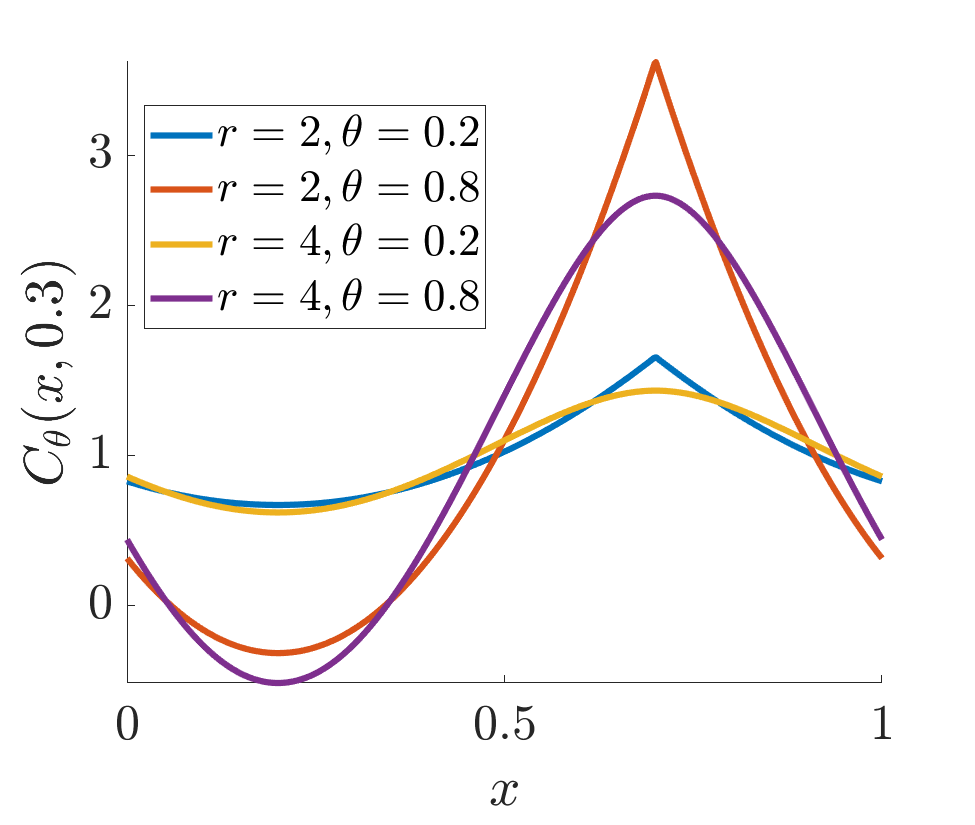
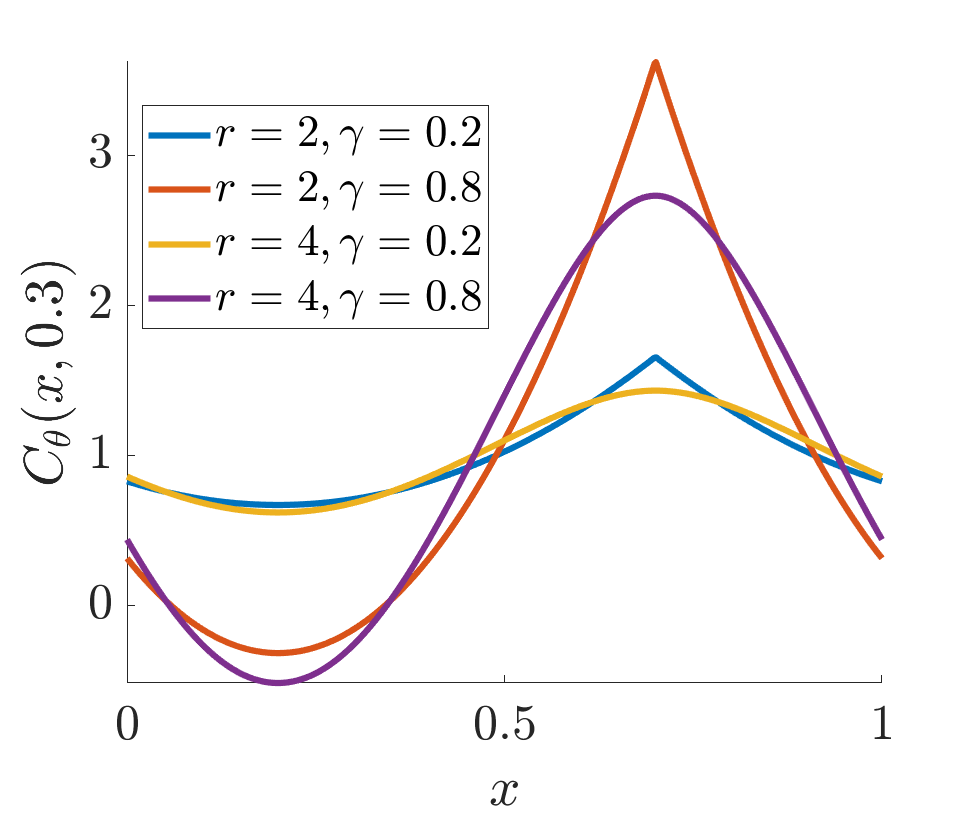
Few cleanups

diff --git a/GAIL_Matlab/Papers/Thesis/Jagadees/TestKeisterBayesianCubature.m b/GAIL_Matlab/Papers/Thesis/Jagadees/TestKeisterBayesianCubature.m
@@ -20,31 +20,7 @@ samplingMethod = get_arg('samplingMethod', varargin);
 
 % define the integrand 
 fName='Keister';
-
-% if 0
-%   normsqd = @(t) sum(t.^2,2); %squared l_2 norm of t
-%   %domain = repmat([0;1],[1,dim]);
-%   replaceZeros = @(t) (t+(t==0)*eps); % to avoid getting infinity, NaN
-%   yinv = @(t)(erfinv( replaceZeros(abs(t)) ));  %using erfcinv is more accurate than erfinv with -1
-%   fKeister = @(t,dim) cos( sqrt( normsqd(yinv(t)) )) *(sqrt(pi))^dim;
-%   integrand = @(x) fKeister(x,dim);
-% else
-%   %integrand = @(x) keisterFunction(x, dim);
-% %   a = 0.99;
-% %   
-% %   normsqd = @(t) sum(t.*t,2); %squared l_2 norm of t
-% %   replaceZeros = @(t) (t+(t==0)*eps); % to avoid getting infinity, NaN
-% %   yinv = @(t)(erfcinv( replaceZeros(abs(t)) ));  %using erfcinv is more accurate than erfinv with -1
-% %   %yinv = @(t) erfcinv(t);
-% % 
-% %   parta = @(nt,a) a^dim .*cos( a*sqrt( nt ));
-% %   partb = @(nt,a) exp(nt*(1-a^2));
-% %   %fKeister = @(nt,dim,a) parta(nt,a).*partb(nt,a)*(sqrt(pi))^dim;
-% %   fKeister = @(nt,dim,a) parta(nt,a).*partb(nt,a)*(pi)^(dim/2);
-% %   integrand = @(x) fKeister(normsqd(yinv(x)),dim,a);
-% end
-
-integrand = @(x) keisterFunc(x, dim);
+integrand = @(x) keisterFunc(x,dim,0.8); % a=0.8
 exactInteg = Keistertrue(dim);
 
 % set the output dir to save the plots        

diff --git a/GAIL_Matlab/Papers/Thesis/Jagadees/IntegrandPlots.m b/GAIL_Matlab/Papers/Thesis/Jagadees/IntegrandPlots.m
@@ -37,24 +37,13 @@ end
 %% Plot the Keister function
 dim = 1;
   
-function y = keisterFunction(x,dim,a)
-  %a = 0.8;
-  normsqd = @(t) sum(t.*t,2); %squared l_2 norm of t
-  yinv = @(t) gail.stdnorminv(t);
-  parta = @(nt,a) a^dim .*cos( a*sqrt( nt ));
-  partb = @(nt,a) exp(nt*(1-2*a^2)/2);
-  fKeisterR = @(nt,dim,a) parta(nt,a).*partb(nt,a)*(2*pi)^(dim/2);
-  y = fKeisterR(normsqd(yinv(x)),dim,a);
-  y(isnan(y)) = 0; % remove any NaN vlaues that could be due to Inf values from stdnorminv
-end
-
 xplot = linspace(0,1,2^10);
 
 if dim==2
   nx = numel(xplot);
   [xx,yy] = meshgrid(xplot);
   xyplot = [xx(:) yy(:) zeros(nx*nx, dim-2)];
-  zz = reshape(keisterFunction(xyplot,dim,0.8),nx,nx);
+  zz = reshape(keisterFunc(xyplot,dim,0.8),nx,nx);
   figH1 = figure();
   surf(xx,yy,zz)
   shading interp
@@ -69,7 +58,7 @@ else
   figH1=figure(); 
   aVec = [0.8 1.5];
   for iter=1:length(aVec)
-    plot(xplot', keisterFunction(xplot',1,aVec(iter)), lineShapes{iter})
+    plot(xplot', keisterFunc(xplot',1,aVec(iter)), lineShapes{iter})
     hold on
   end
   temp = string(aVec);

diff --git a/GAIL_Matlab/Papers/Thesis/Jagadees/plot_fourier_kernel.m b/GAIL_Matlab/Papers/Thesis/Jagadees/plot_fourier_kernel.m
@@ -20,7 +20,7 @@ if dim==1
   for r = order
     for sh = shape_param
       Z(:,i) = kernel(xpts, r, sh);
-      leg_text{i} = sprintf('$r=%d,\\theta=%1.1f$', r, sh);
+      leg_text{i} = sprintf('$r=%d,\\gamma=%1.1f$', r, sh);
       i=i+1;
     end
   end

diff --git a/GAIL_Matlab/Papers/Thesis/Jagadees/keisterFunc.m b/GAIL_Matlab/Papers/Thesis/Jagadees/keisterFunc.m
@@ -1,6 +1,6 @@
 
-function y = keisterFunc(x,dim)
-  a = 0.8;
+function y = keisterFunc(x,dim,a)
+  % a = 0.8;
   normsqd = @(t) sum(t.*t,2); %squared l_2 norm of t
   yinv = @(t) gail.stdnorminv(t);
 
